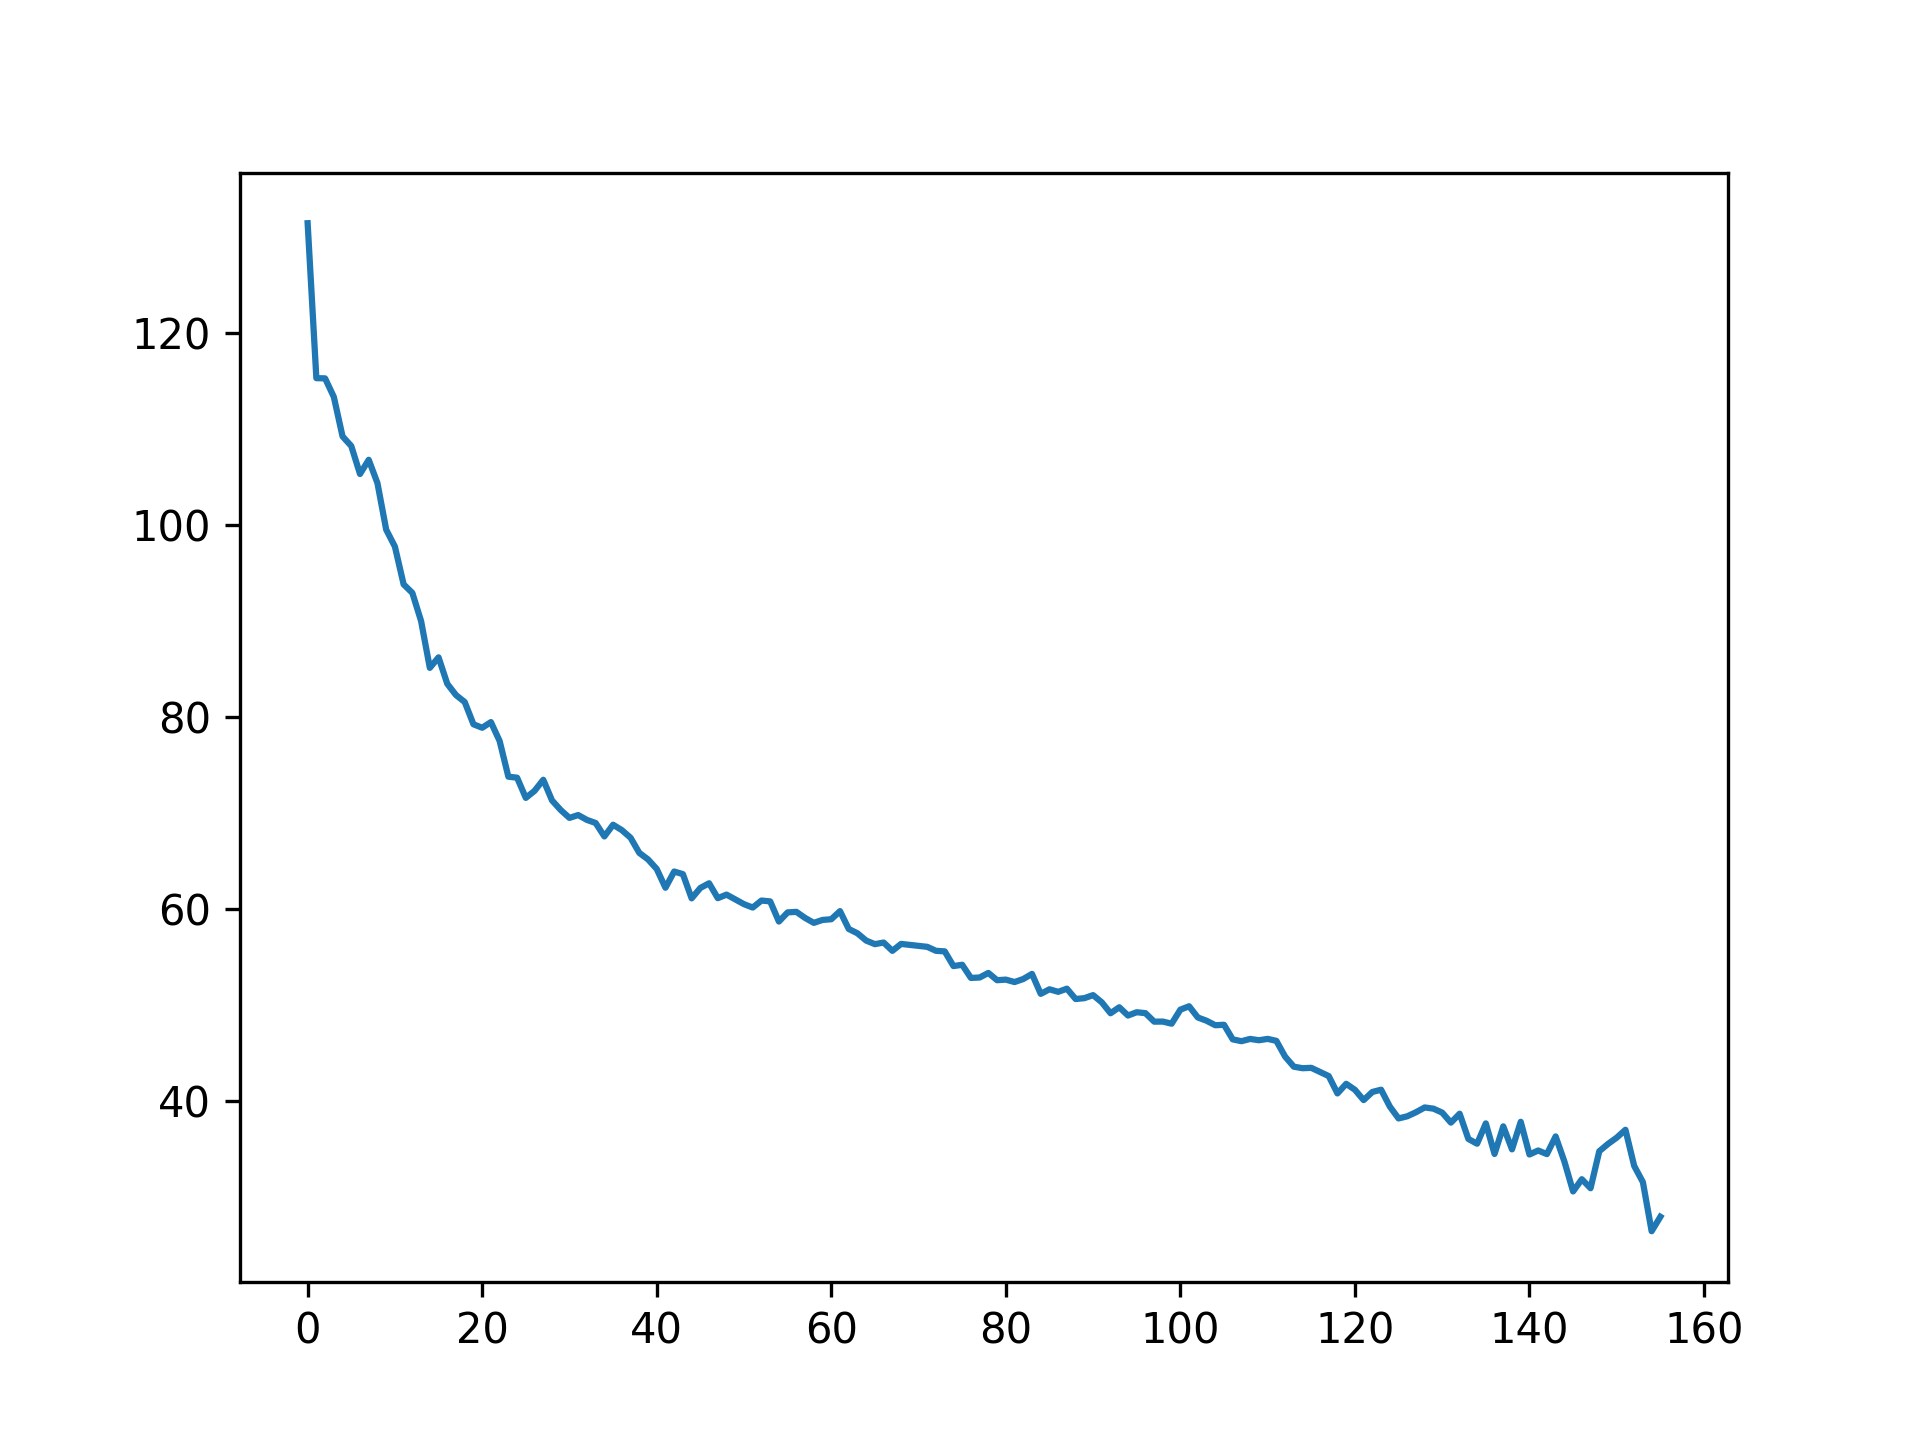
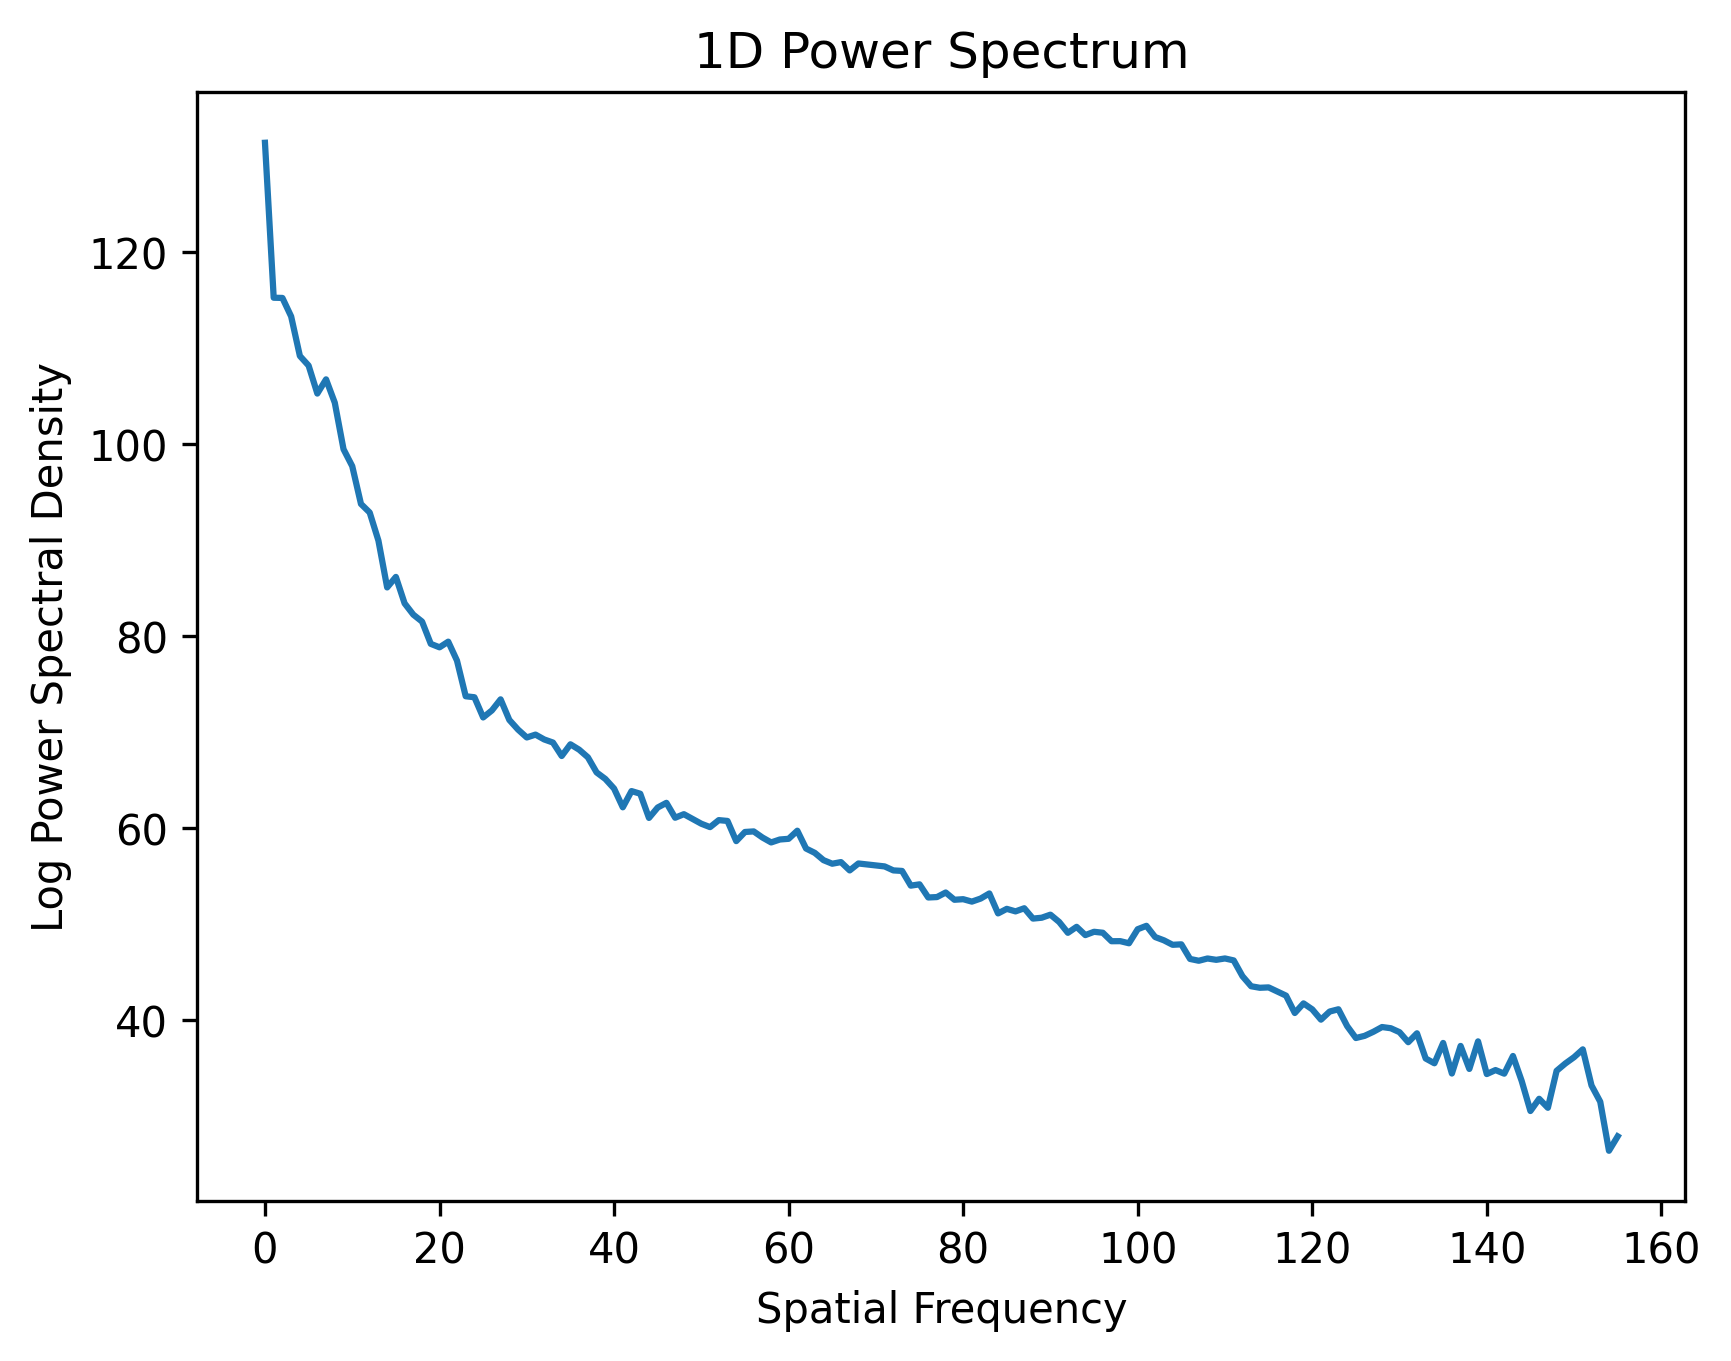
Added cute cat picture and result plot.

Changed region(s): [[0.0, 0.0, 0.9983, 0.9875]]

diff --git a/SpectralProfile.py b/SpectralProfile.py
@@ -102,5 +102,8 @@ if __name__ == '__main__':
     psd1D = get_spectrum(arr)
 
     plt.plot(psd1D)
-    plt.savefig('./psd1D.png', dpi=300)
+    plt.xlabel('Spatial Frequency')
+    plt.ylabel('Log Power Spectral Density')
+    plt.title('1D Power Spectrum')
+    plt.savefig('./psd1D.png', dpi=300, bbox_inches='tight')
     plt.show()

diff --git a/README.md b/README.md
@@ -28,6 +28,39 @@ simply call the function `get_spectrum` as follows:
 
 which returns a 1D power spectral density (PSD) of the image.
 
+Example
+-------
+
+Given this following cute cat picture, we first convert it to grayscale, then to a PyTorch tensor.
+Finally, we apply `get_spectrum` to get the 1D PSD of the image and plot the PSD using `matplotlib.pyplot`.
+
+```Python
+import torch
+import numpy as np
+from PIL import Image
+import matplotlib.pyplot as plt
+from SpectralProfile import get_spectrum
+
+# Read image, convert to grayscale, then to PyTorch tensor
+img = Image.open("./cat.jpg").convert('L')
+arr = np.array(img.getdata(), dtype=np.float32)
+arr = arr.reshape(img.size[1], img.size[0])
+arr = arr / 255.0
+arr = torch.tensor(arr)
+
+# Get 1D PSD of the image
+psd1D = get_spectrum(arr)
+
+# Plot the PSD
+plt.plot(psd1D)
+plt.xlabel('Spatial Frequency')
+plt.ylabel('Log Power Spectral Density')
+plt.title('1D Power Spectrum')
+plt.savefig('./psd1D.png', dpi=300, bbox_inches='tight')
+plt.show()
+```
+
+![Cat](cat.jpg) ![psd1D](psd1D.png)
 
 
 
